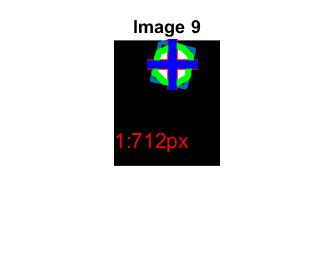
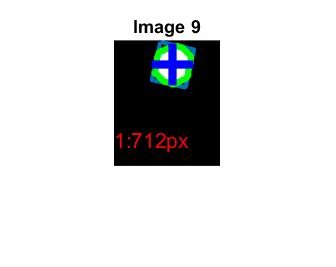
yeet

Changed region(s): [[0.4167, 0.1199, 0.5952, 0.3596]]

diff --git a/3-Optical/plotEdgeCentroid.m b/3-Optical/plotEdgeCentroid.m
@@ -1,6 +1,6 @@
 function plotEdgeCentroid(b,j)
     sz = 600;
-    scatter(mean(b(:,2)),mean(b(:,1)),sz,'r','+','LineWidth',5);
+    %scatter(mean(b(:,2)),mean(b(:,1)),sz,'r','+','LineWidth',5);
     str = num2str(j);
     text(mean(b(:,2)),mean(b(:,1))+200,str,'Color','red',...
         'FontSize',60);

diff --git a/3-Optical/plotBoundingCentroid.m b/3-Optical/plotBoundingCentroid.m
@@ -1,6 +1,6 @@
 function plotBoundingCentroid(b,j)
     str = num2str(j);
-    sz = 600;
+    sz = 400;
     scatter(mean(b(1:end-1,1)),mean(b(1:end-1,2)),sz,'b','+','LineWidth',4);
     text(mean(b(1:end-1,1)),mean(b(1:end-1,2))+200,str,'Color','red',...
         'FontSize',60);

diff --git a/3-Optical/FindCentroid.m b/3-Optical/FindCentroid.m
@@ -14,7 +14,7 @@ for i=1:length(imageFiles)
     %}
     I_gray = rgb2gray(I);
     
-    binaryTolerance = 0.1;
+    binaryTolerance = 0.3;
     I_binarized = imbinarize(I_gray,binaryTolerance);
     %imshow(I_binarized)
     [I_boundaries,~,~,~] = bwboundaries(I_binarized);

diff --git a/3-Optical/EdgeOutlineDetection.m b/3-Optical/EdgeOutlineDetection.m
@@ -16,7 +16,7 @@ plotBinarized = 0;
 
 %%% Search desired image folder for relevant images
 imageDirectory = 'Images/';
-imageSet = 'occ*';
+imageSet = '8*';
 if strcmp(imageSet,'8*')
     imageType = 'RealImages';
 elseif strcmp(imageSet,'multi')
